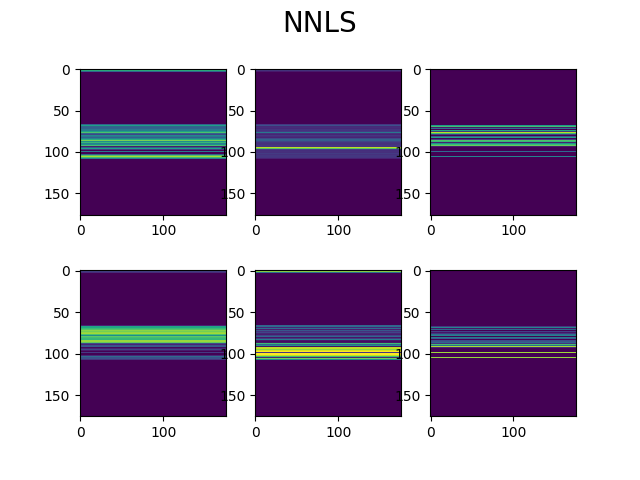
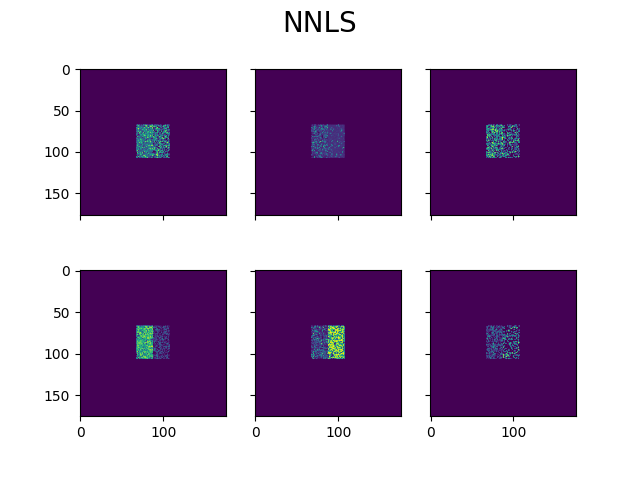
Fixed heatmap output error. Now working as intended
TODO: Implement colorbar and turn off axis

diff --git a/src/plotting.py b/src/plotting.py
@@ -2,7 +2,7 @@ import numpy as np
 from pathlib import Path
 from matplotlib.figure import Figure
 import matplotlib.pyplot as plt
-import matplotlib.axis as Axis
+import matplotlib.axis as plt_axis
 
 # from matplotlib.backends.backend_qt5agg import FigureCanvasQTAgg as FigureCanvas
 from matplotlib.backends.backend_qtagg import FigureCanvasQT as FigureCanvas
@@ -13,7 +13,11 @@ from src.appdata import AppData
 
 
 def show_pixel_signal(
-    axis: Axis, canvas: FigureCanvas, data: AppData, fit_params: Parameters, pos: list
+    axis: plt_axis,
+    canvas: FigureCanvas,
+    data: AppData,
+    fit_params: Parameters,
+    pos: list,
 ):
     color = plt.rcParams["axes.prop_cycle"].by_key()["color"][0]
     y_data = data.nii_img.array[pos[0], pos[1], data.plt["n_slice"].value, :]
@@ -24,7 +28,7 @@ def show_pixel_signal(
     canvas.draw()
 
 
-def show_pixel_fit(axis: Axis, canvas: FigureCanvas, data: AppData, pos: list):
+def show_pixel_fit(axis: plt_axis, canvas: FigureCanvas, data: AppData, pos: list):
     number_slice = data.plt["n_slice"].value
     color = plt.rcParams["axes.prop_cycle"].by_key()["color"][0]
     # pixel_result = data.fit_data.fit_results.raw.get((pos[0], pos[1], number_slice), None)
@@ -41,7 +45,7 @@ def show_pixel_fit(axis: Axis, canvas: FigureCanvas, data: AppData, pos: list):
         canvas.draw()
 
 
-def show_pixel_spectrum(axis: Axis, canvas: FigureCanvas, data: AppData, pos: list):
+def show_pixel_spectrum(axis: plt_axis, canvas: FigureCanvas, data: AppData, pos: list):
     color = plt.rcParams["axes.prop_cycle"].by_key()["color"][0]
     y_data = data.nii_dyn.array[pos[0], pos[1], data.plt["n_slice"].value, :]
     n_bins = np.shape(y_data)
@@ -54,7 +58,7 @@ def show_pixel_spectrum(axis: Axis, canvas: FigureCanvas, data: AppData, pos: li
     canvas.draw()
 
 
-def show_seg_spectrum(axis: Axis, canvas: FigureCanvas, data, number_seg: int):
+def show_seg_spectrum(axis: plt_axis, canvas: FigureCanvas, data, number_seg: int):
     seg_idx = data.Nii_mask.get_segIndizes(number_seg)
     y_data = np.zeros(data.Nii_dyn.shape(3))
     for idx in seg_idx:
@@ -82,19 +86,19 @@ def create_heatmaps(data: FitData, d: dict, f: dict):
     f_heatmap = np.zeros(np.append(img_dim, n_comps))
 
     for key, value in d.items():
-        d_heatmap[key, :] = value
-        f_heatmap[key, :] = f[key]
+        d_heatmap[key + (slice(None),)] = value
+        f_heatmap[key + (slice(None),)] = f[key]
 
     # Plot heatmaps
-    fig, axs = plt.subplots(2, n_comps)
+    fig, axs = plt.subplots(2, n_comps)  # TODO: Turn off axis and put in colorbar(s)
     fig.suptitle(f"{model}", fontsize=20)
 
     for comp in range(0, n_comps):
         axs[0, comp].imshow(d_heatmap[:, :, slice_number, comp])
         axs[1, comp].imshow(f_heatmap[:, :, slice_number, comp])
 
-    # plt.show()
     fig.savefig(Path(f"data/results/heatmaps_{model}_slice_{slice_number}.png"))
+    plt.show()
 
 
 class Plot:
@@ -105,6 +109,7 @@ class Plot:
         y_data: np.ndarray | None = None,
         x_data: np.ndarray | None = None,
     ):
+        self.x_lim = None
         self._y_data = y_data
         self._x_data = x_data
         self._figure = figure
